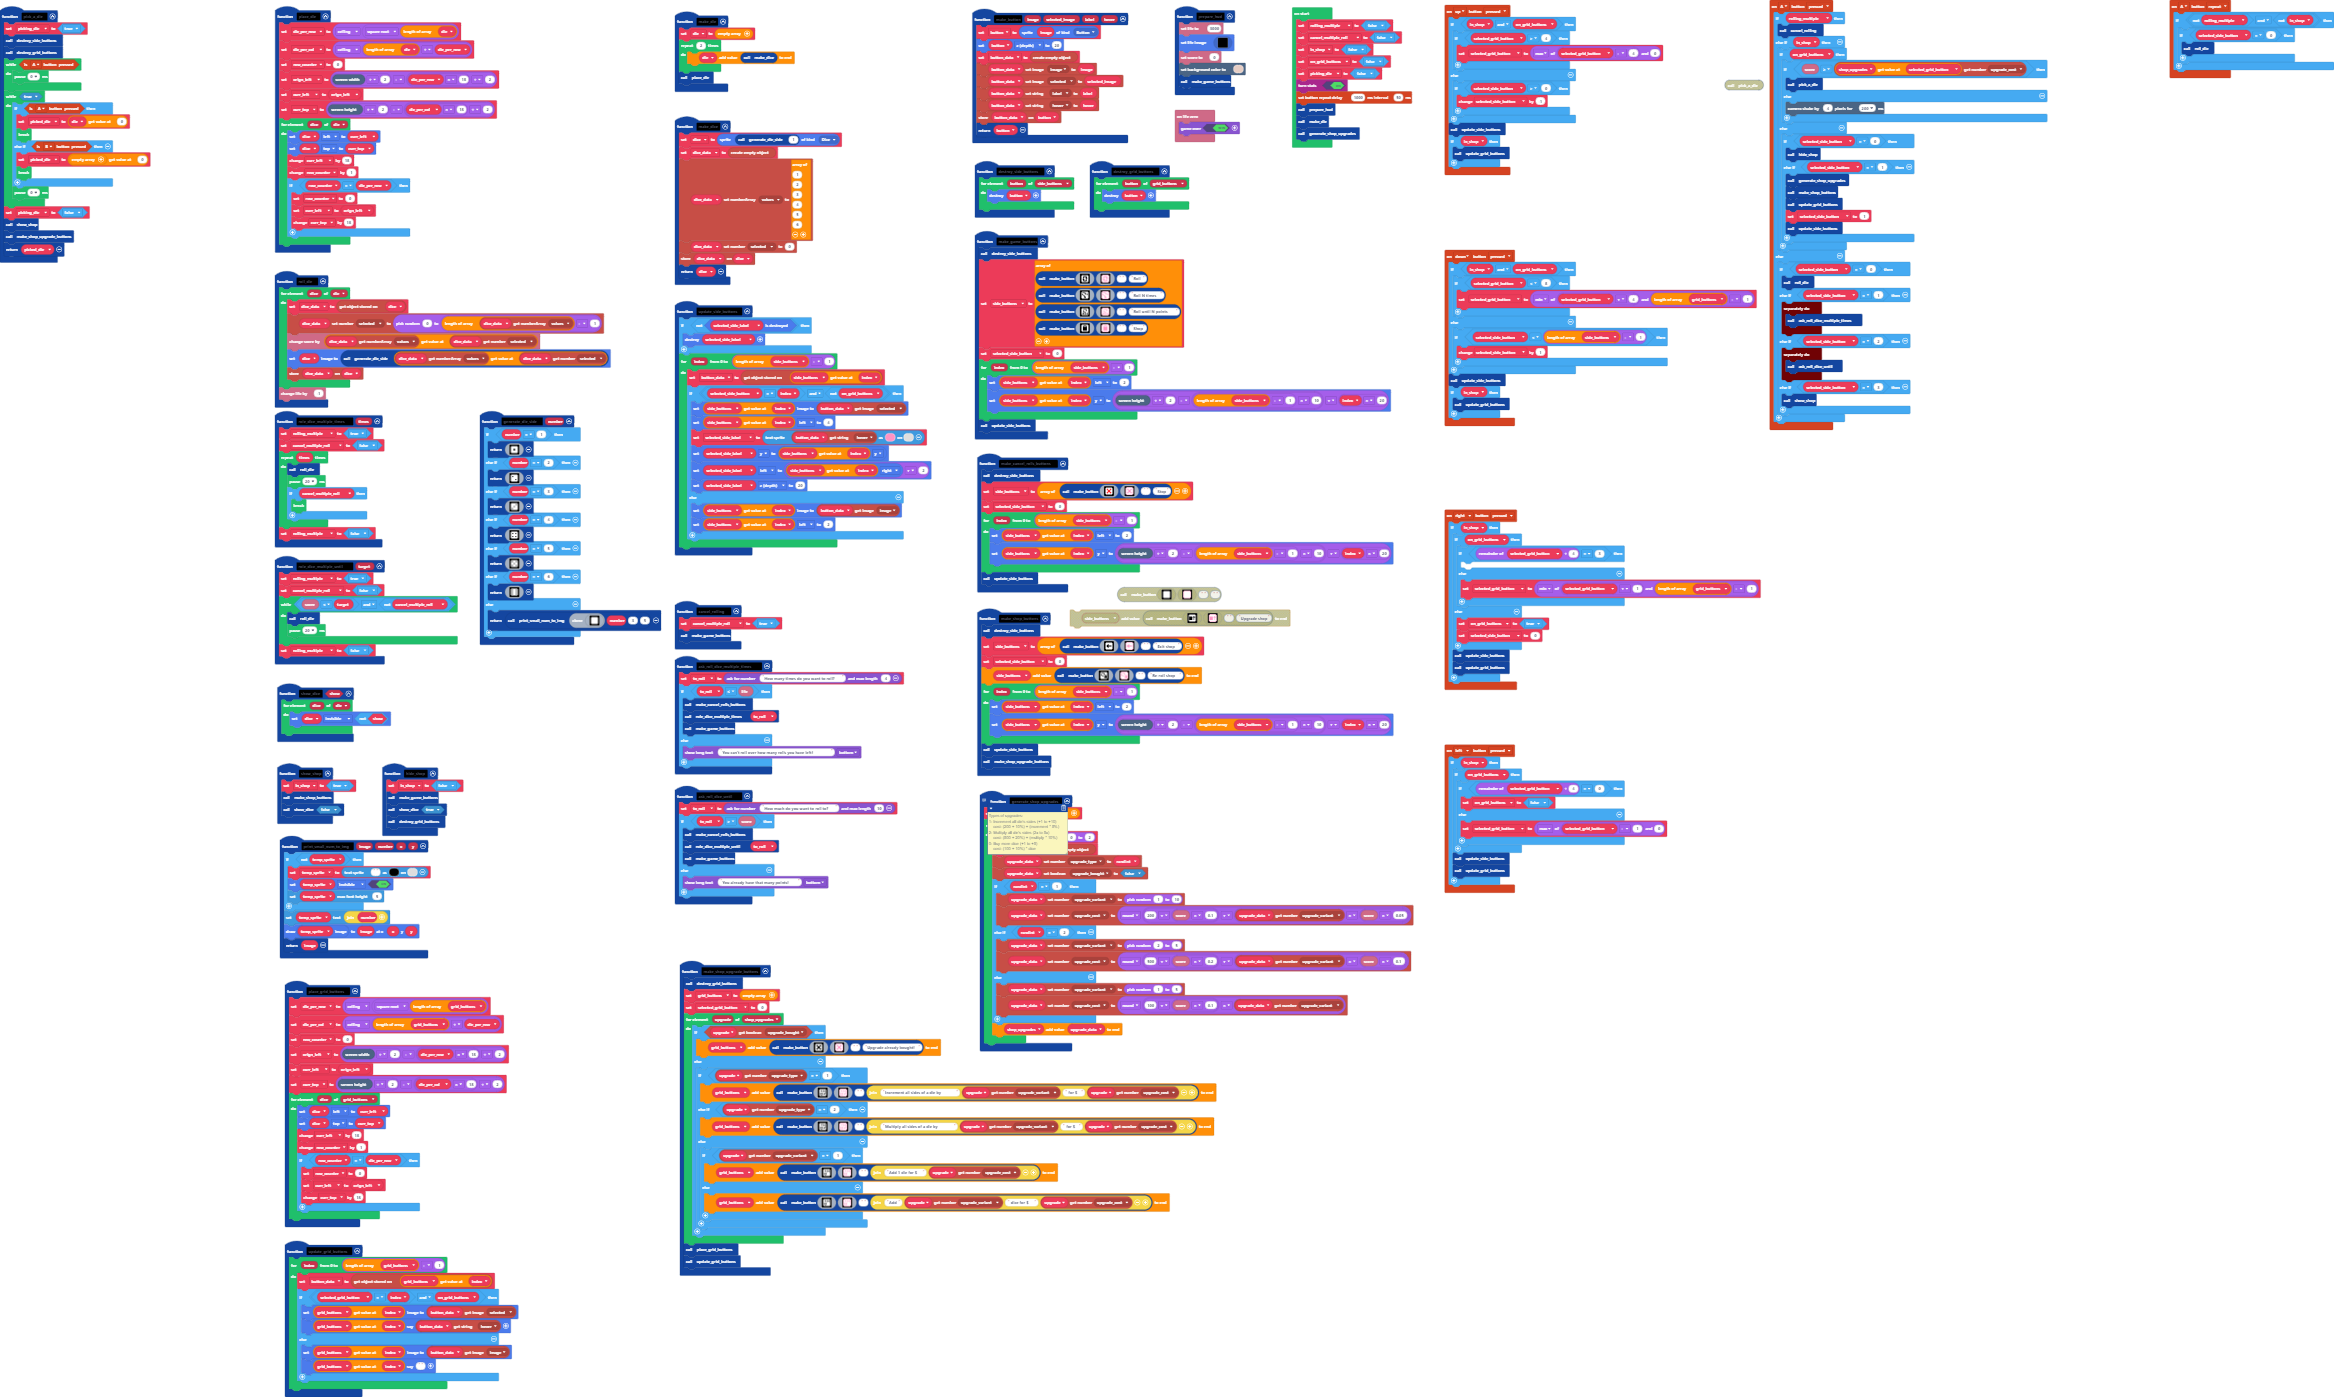
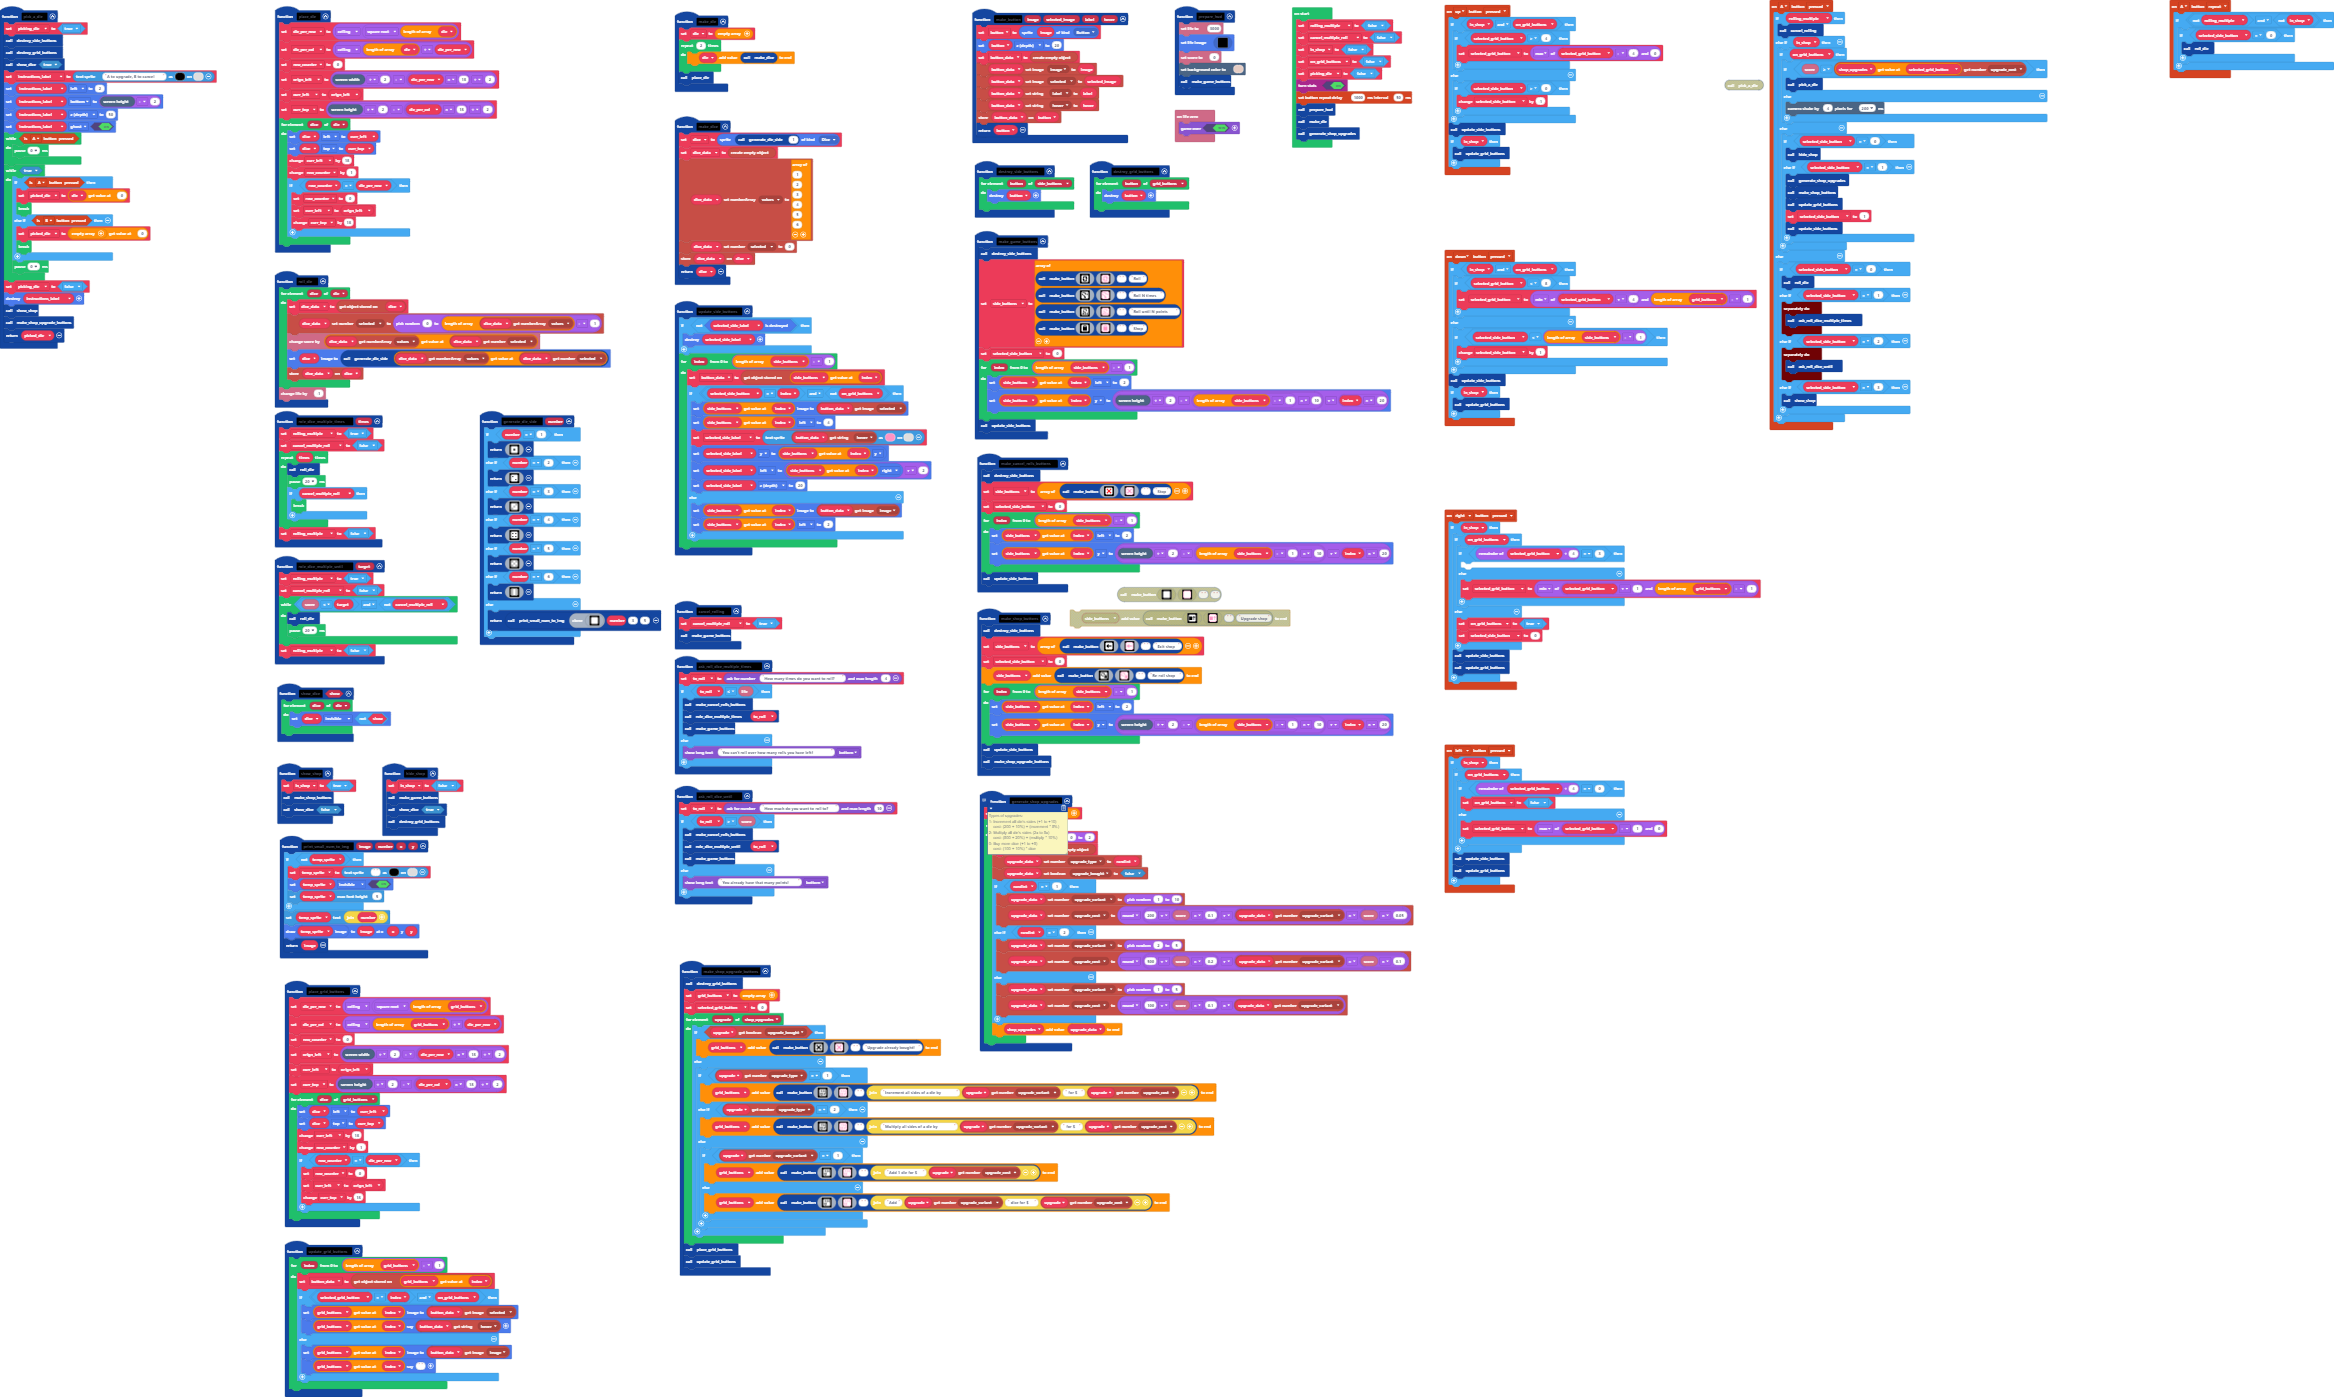
Show dice and instructions when picking a die

Changed region(s): [[0.0, 0.0308, 0.0925, 0.2462]]

diff --git a/main.ts b/main.ts
@@ -235,6 +235,12 @@ function pick_a_die () {
     picking_die = true
     destroy_side_buttons()
     destroy_grid_buttons()
+    show_dice(true)
+    instructions_label = textsprite.create("A to upgrade, B to cancel", 0, 15)
+    instructions_label.left = 2
+    instructions_label.bottom = scene.screenHeight() - 2
+    instructions_label.z = 50
+    instructions_label.setFlag(SpriteFlag.Ghost, true)
     while (controller.A.isPressed()) {
         pause(0)
     }
@@ -249,6 +255,7 @@ function pick_a_die () {
         pause(0)
     }
     picking_die = false
+    instructions_label.destroy()
     show_shop()
     make_shop_upgrade_buttons()
     return picked_die
@@ -459,6 +466,7 @@ let upgrade_data: blockObject.BlockObject = null
 let randint2 = 0
 let to_roll = 0
 let picked_die: Sprite = null
+let instructions_label: TextSprite = null
 let button: Sprite = null
 let curr_top = 0
 let curr_left = 0
